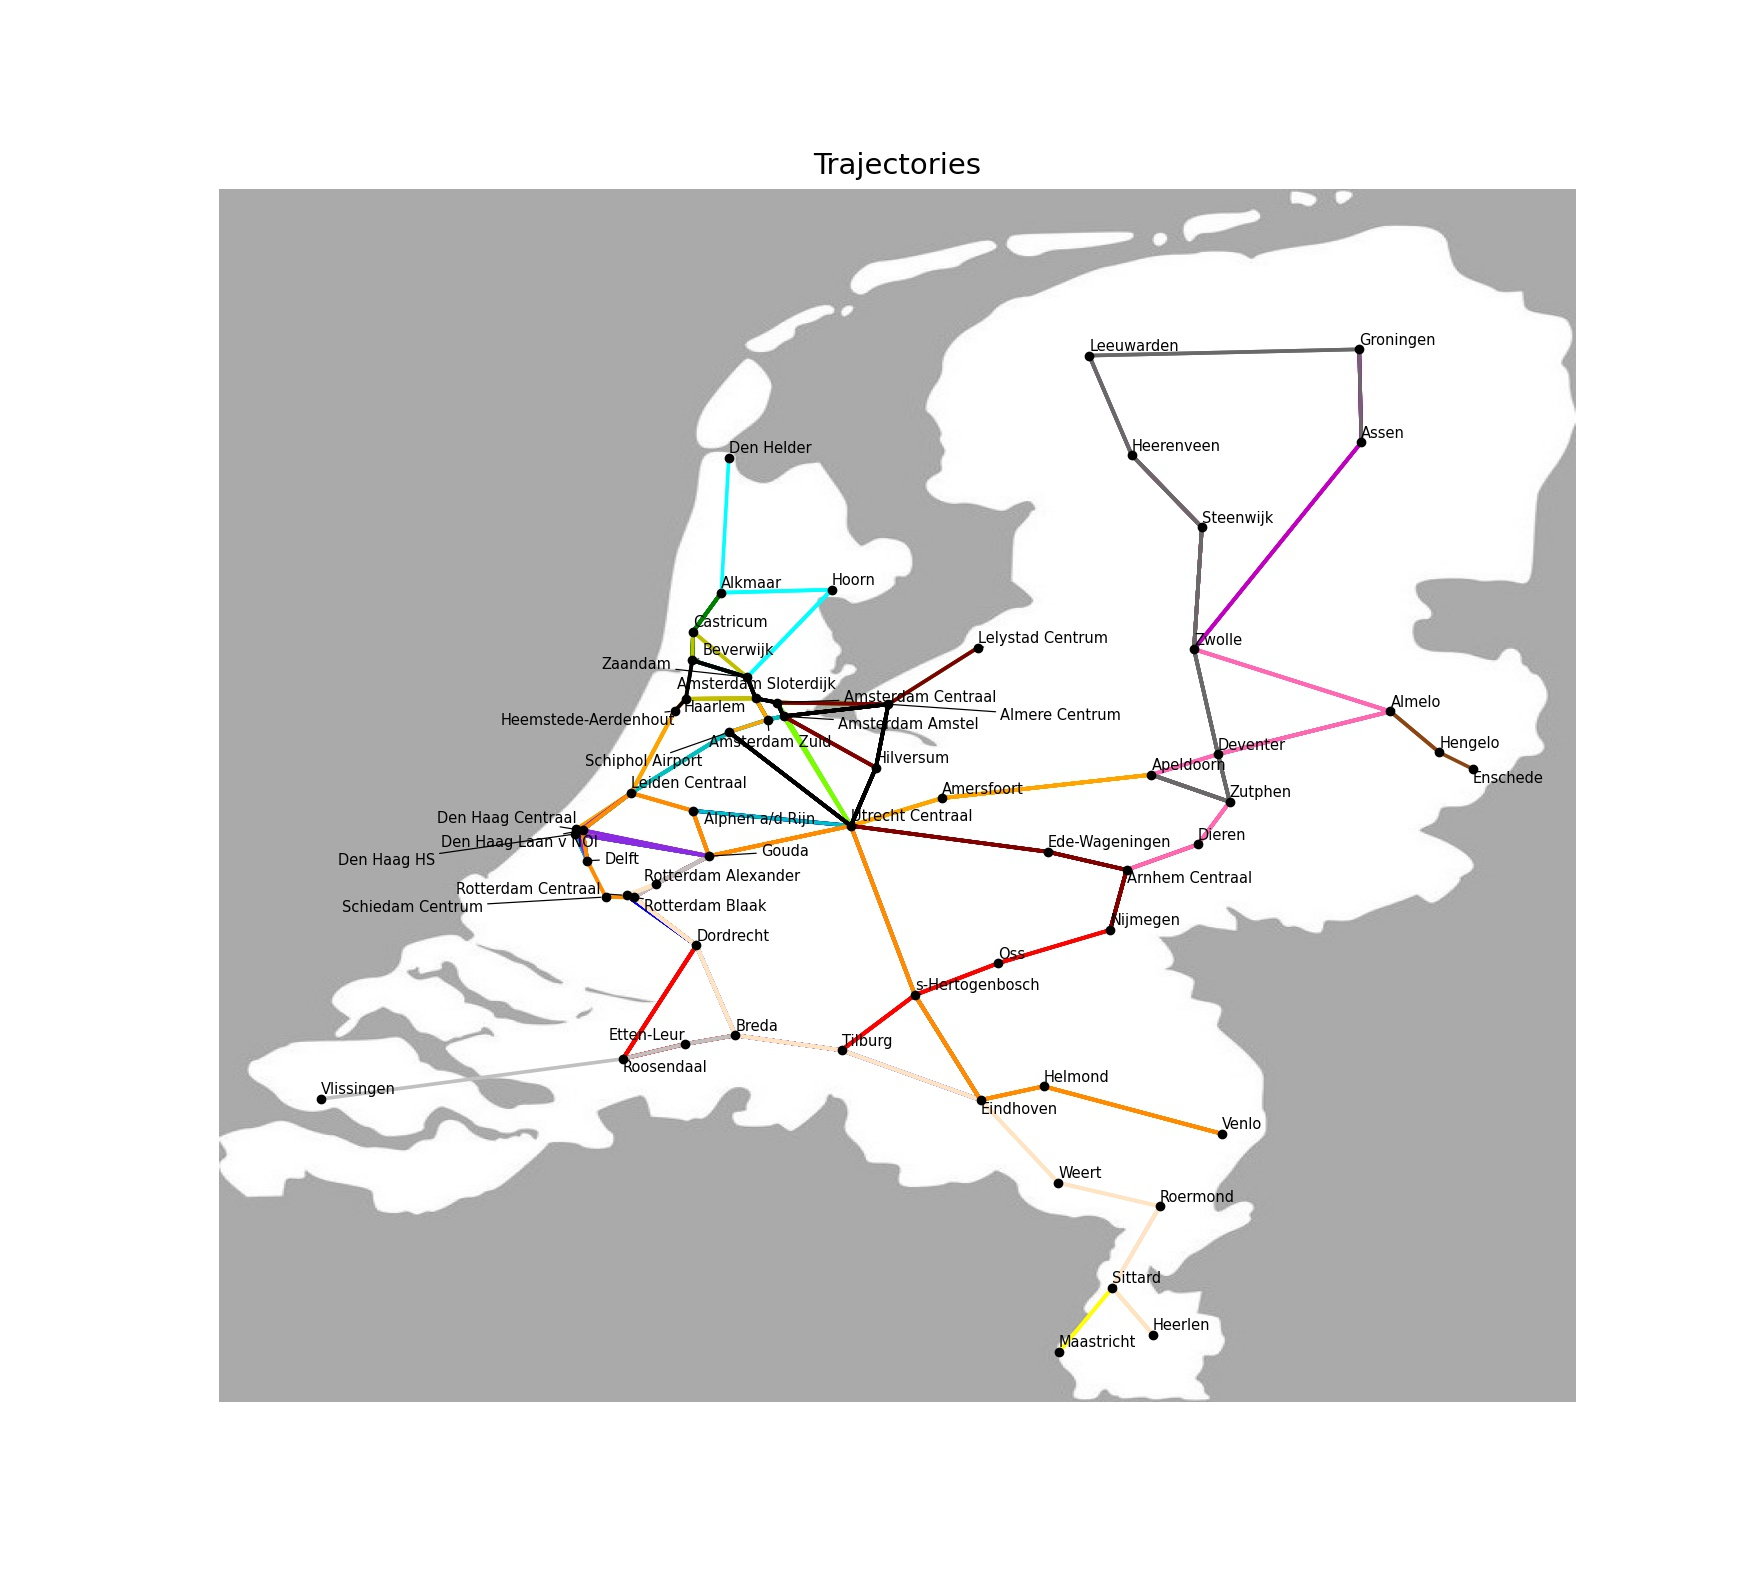
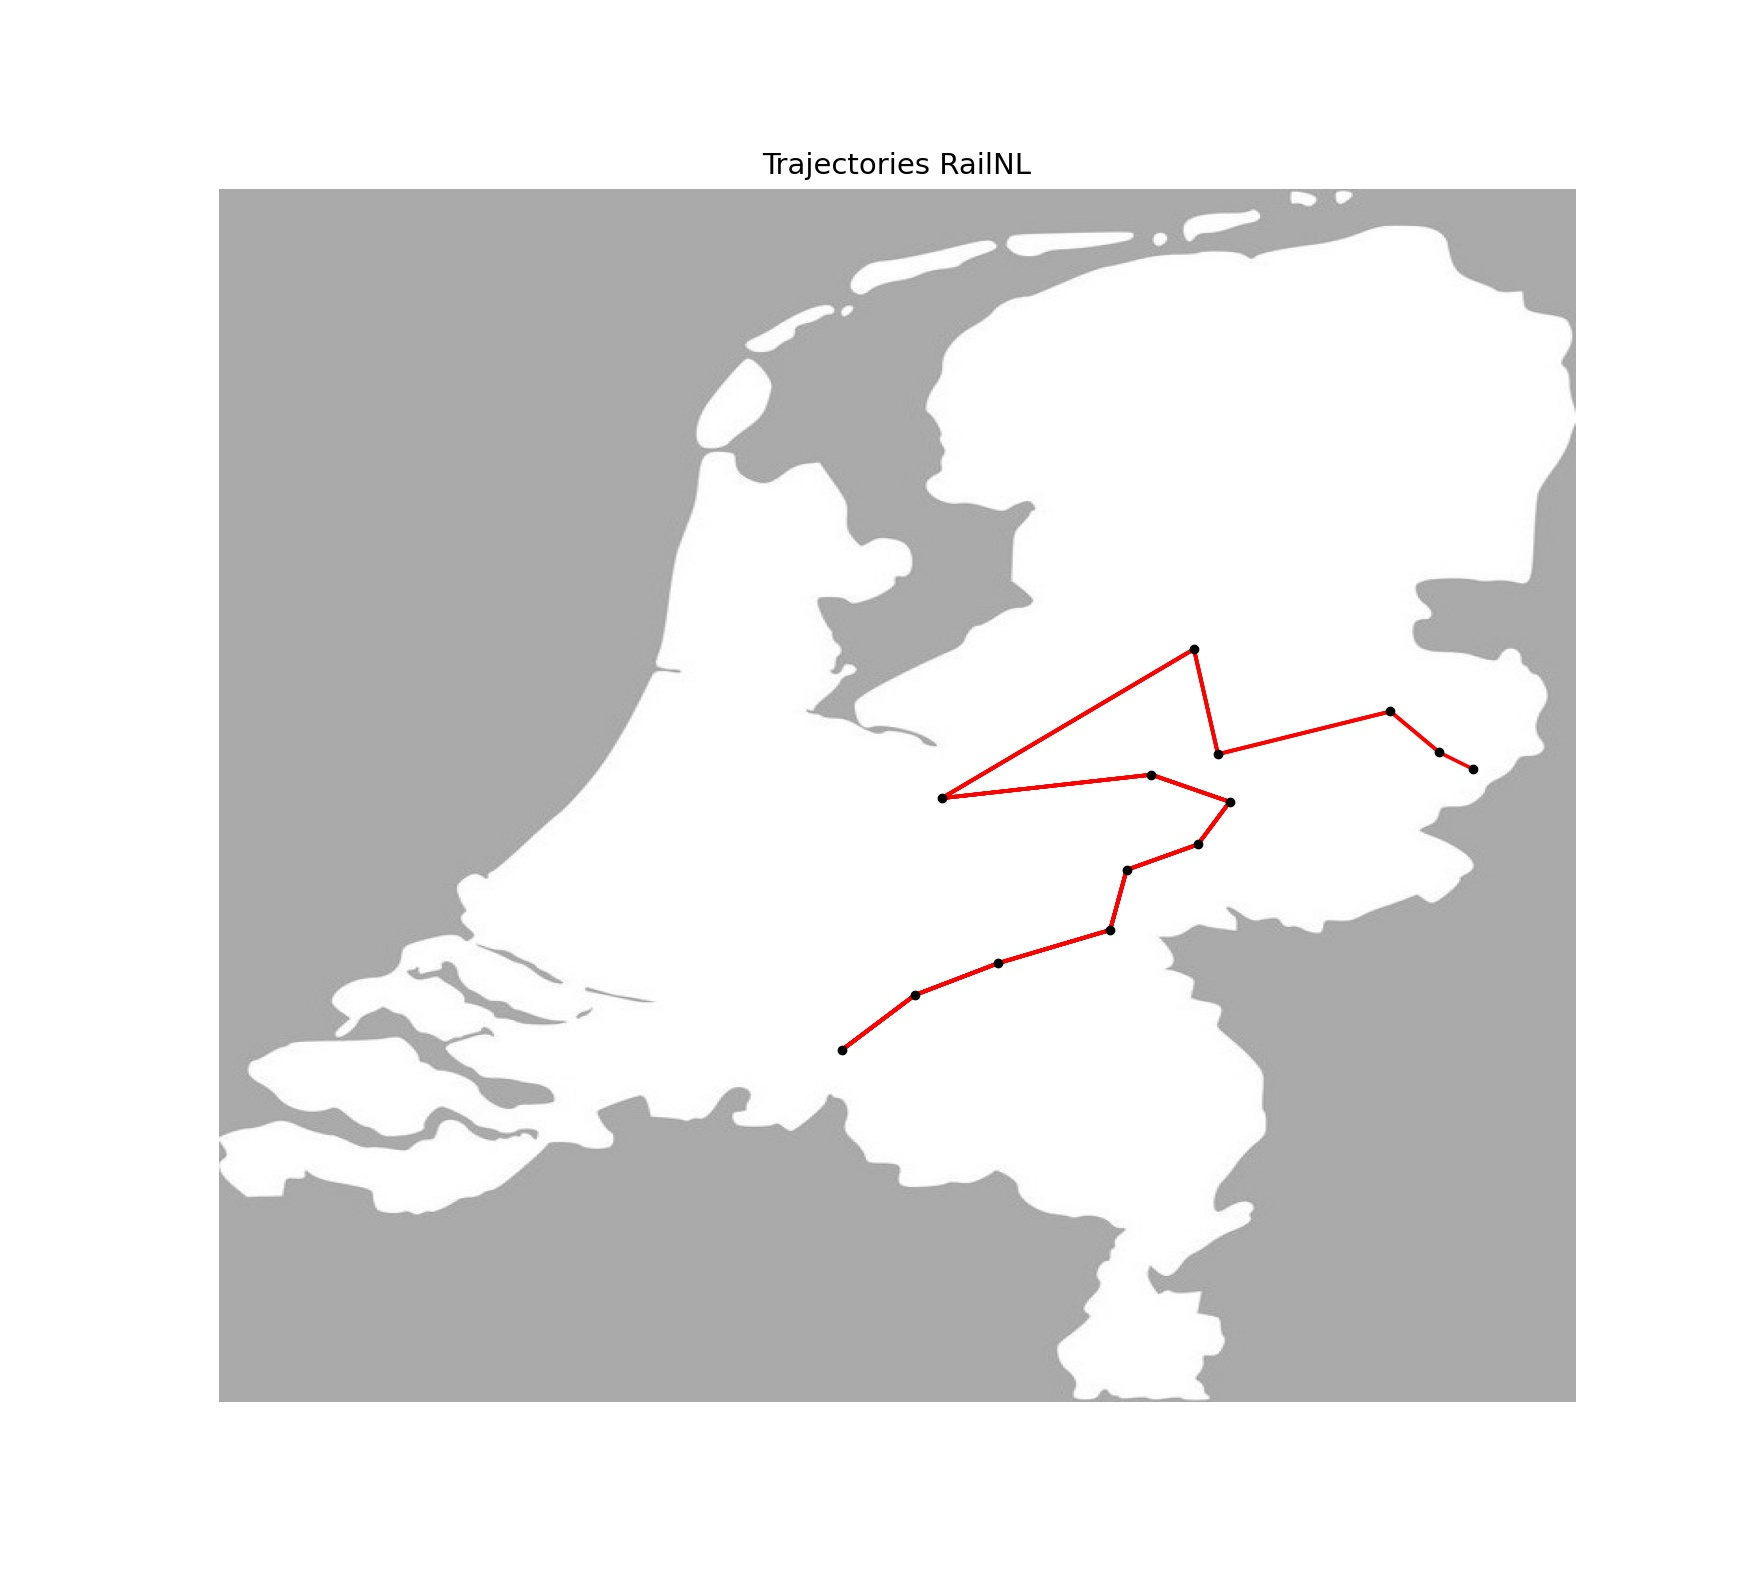
update

diff --git a/code/visualisation/visualise_names.py b/code/visualisation/visualise_names.py
@@ -3,10 +3,9 @@ import pandas as pd
 import matplotlib.pyplot as plt
 from adjustText import adjust_text
 import random
-from helpers.unique_file import unique_file
 
 
-def visualise(train_map):
+def visualise_names(train_map):
     """View all trajectories in a map."""
 
     used_colors = []
@@ -54,24 +53,24 @@ def visualise(train_map):
 
     x_positions = []
     y_positions = []
-    # names = []
+    names = []
 
     # list all the stations that are ridden in the trajectory
     for station in train_map.determine_ridden_stations():
         x_positions.append(station.x_position)
         y_positions.append(station.y_position)
-        # names.append(station.name)
+        names.append(station.name)
     
     # place a point for each ridden station
     ax.scatter(y_positions, x_positions, c='k', marker=("."), zorder=2)
     
     # write the names of stations by each point
-    # texts = []
-    # for x, y, s in zip(y_positions, x_positions, names):
-    #     texts+=[plt.text(x, y, s, fontsize=6)]
+    texts = []
+    for x, y, s in zip(y_positions, x_positions, names):
+        texts+=[plt.text(x, y, s, fontsize=6)]
     
     # make sure annotations do not touch
-    # adjust_text(texts, arrowprops=dict(arrowstyle="-", color='k', lw=0.5), only_move={'points':'y', 'texts':'y'})
+    adjust_text(texts, arrowprops=dict(arrowstyle="-", color='k', lw=0.5), only_move={'points':'y', 'texts':'y'})
 
     # show the image
     ax.imshow(background, zorder=0, extent = BBox, aspect= 'auto')
@@ -79,4 +78,4 @@ def visualise(train_map):
     # show the plots
     plt.show()
 
-    plt.savefig(unique_file("results/trajectories", "jpeg"), format="jpeg", dpi=175)
+    plt.savefig("results/trajectories.jpeg", format="jpeg", dpi=175)

diff --git a/main.py b/main.py
@@ -3,14 +3,14 @@ from code.classes.station import Station
 from code.algorithms.randomise import Randomise
 from code.algorithms.hill_climber import HillClimber
 from code.algorithms.simulated_annealing import SimulatedAnnealing
-from code.visualisation.visualise import visualise
+from code.visualisation.visualise_names import visualise_names
 import csv
 import random
 
 TIME_FAME_HOLLAND = 120
 MAX_TRAINS_HOLLAND = 7
-TIME_FAME_NATIONAL = 180
-MAX_TRAINS_NATIONAL = 20
+TIME_FAME_NATIONAL = 300
+MAX_TRAINS_NATIONAL = 1
 TEMP = 50
 
 if __name__ == '__main__':
@@ -105,7 +105,7 @@ if __name__ == '__main__':
         visualisation = str(input("Do you want a visualisation?(y/n): ")).lower().strip()
     
         if visualisation[0] == 'y':
-            visualise(best_map)
+            visualise_names(best_map)
             break
         if visualisation[0] == 'n':
             break

diff --git a/code/algorithms/hill_climber.py b/code/algorithms/hill_climber.py
@@ -1,6 +1,7 @@
 from .randomise import Randomise
 from code.classes.map import Map
 from helpers.remove_duplicates import remove_duplicates
+from code.visualisation.visualise import visualise
 import csv
 import copy
 import random
@@ -114,9 +115,12 @@ class HillClimber:
 
             self.check_solution(new_map)
 
-            if iteration%5000 == 0:
+            if iteration%100 == 0:
                 print(f"Iteration {iteration} reached. {iterations - iteration} iterations left")
                 print(f"Highest score: {self.score}\n")
+                # visualise(new_map)
+
+            visualise(new_map)
 
         return self.map
     

diff --git a/helpers/unique_file.py b/helpers/unique_file.py
@@ -1,0 +1,11 @@
+import itertools
+import os
+
+def unique_file(basename, ext):
+    actualname = "%s.%s" % (basename, ext)
+    c = itertools.count()
+
+    while os.path.exists(actualname):
+        actualname = "%s (%d).%s" % (basename, next(c), ext)
+    
+    return actualname
